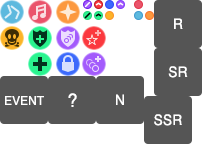
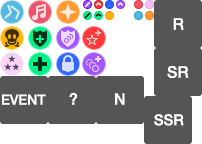
cards can be balanced

diff --git a/static/css/main.less b/static/css/main.less
@@ -158,6 +158,9 @@ footer {
   &.m_vo {
     .stitches-marker(-28px, 0, 24px, 24px);
   }
+  &.m_ba {
+    .stitches-marker(0, -52px, 24px, 24px);
+  }
   &.s_pl {
     .stitches-marker(-56px, -52px, 24px, 24px);
   }
@@ -186,7 +189,7 @@ footer {
     border-radius:3px;
     &.icon_event, &.icon_n, &.icon_r, &.icon_sr, &.icon_ssr, &.m_vi,
     &.m_da, &.m_vo, &.s_pl, &.s_cprot, &.s_combobonus, &.s_scorebonus,
-    &.s_heal, &.s_life, &.s_overload {
+    &.s_heal, &.s_life, &.s_overload, &.m_ba {
       background-image:url(../img/smarkers@2x.png);
       background-size: 202px 144px;
       border-radius:0px;
@@ -319,7 +322,7 @@ td {
         float:right;
     }
     .stats_table tbody {
-        display: block; 
+        display: block;
     }
     .stats_table tr {
         display:inline-block;
@@ -473,7 +476,7 @@ td {
     .name_tag {
       color:white;
       font-size:0;
-      
+
       .item.name {
           word-wrap:break-word;
       }
@@ -819,7 +822,7 @@ span.var {
     left:1px; top:1px;
     display:block;
     width:9px; height:9px;
-    background: url("../img/smarkers.png") 0 -50px no-repeat;
+    background: url("../img/smarkers.png") -115px -50px no-repeat;
 
     content:"";
   }
@@ -836,12 +839,16 @@ span.var {
    background-position: -134px 0;
   }
 
+  &.mm_ba::before {
+   background-position: -145px 0;
+  }
+
   &::after {
     position:absolute;
     left:1px; top:10px;
     display:block;
     width:9px; height:9px;
-    background: url("../img/smarkers.png") 0 -50px no-repeat;
+    background: url("../img/smarkers.png") -115px -50px no-repeat;
 
     content:"";
   }

diff --git a/static/css/main.css b/static/css/main.css
@@ -124,6 +124,11 @@ footer {
   width: 24px;
   height: 24px;
 }
+.icon.m_ba {
+  background-position: 0 -52px;
+  width: 24px;
+  height: 24px;
+}
 .icon.s_pl {
   background-position: -56px -52px;
   width: 24px;
@@ -177,7 +182,8 @@ footer {
   .icon.s_scorebonus,
   .icon.s_heal,
   .icon.s_life,
-  .icon.s_overload {
+  .icon.s_overload,
+  .icon.m_ba {
     background-image: url(../img/smarkers@2x.png);
     background-size: 202px 144px;
     border-radius: 0px;
@@ -822,7 +828,7 @@ span.var {
   display: block;
   width: 9px;
   height: 9px;
-  background: url("../img/smarkers.png") 0 -50px no-repeat;
+  background: url("../img/smarkers.png") -115px -50px no-repeat;
   content: "";
 }
 .icon.msprites.mm_vi::before {
@@ -834,6 +840,9 @@ span.var {
 .icon.msprites.mm_vo::before {
   background-position: -134px 0;
 }
+.icon.msprites.mm_ba::before {
+  background-position: -145px 0;
+}
 .icon.msprites::after {
   position: absolute;
   left: 1px;
@@ -841,7 +850,7 @@ span.var {
   display: block;
   width: 9px;
   height: 9px;
-  background: url("../img/smarkers.png") 0 -50px no-repeat;
+  background: url("../img/smarkers.png") -115px -50px no-repeat;
   content: "";
 }
 .icon.msprites.ms_pl::after {

diff --git a/static/dots.html b/static/dots.html
@@ -28,6 +28,10 @@
         <td><div class="icon icon_unknown msprites mm_vo"></div></td>
         <td>Red: Vocal</td>
       </tr>
+      <tr>
+        <td><div class="icon icon_unknown msprites mm_ba"></div></td>
+        <td>Creamy purple: Balanced</td>
+      </tr>
     </table>
 
     <p>And the dot below that indicates the card's skill type, if any:</p>
@@ -67,6 +71,7 @@
       <li><span class="icon m_vi"></span> high Visual</li>
       <li><span class="icon m_da"></span> high Dance</li>
       <li><span class="icon m_vo"></span> high Vocal</li>
+      <li><span class="icon m_ba"></span> balanced</li>
 
       <li><span class="icon s_pl"></span> Perfect lock</li>
       <li><span class="icon s_cprot"></span> Protects combo</li>

diff --git a/starlight/__init__.py b/starlight/__init__.py
@@ -58,6 +58,21 @@ def skill_dur(dur_def, ttype):
     return "{0}..{1}".format(_scale_skill_value(maxv, minv, 0),
                              _scale_skill_value(maxv, minv, 9))
 
+def determine_best_stat(vo, vi, da):
+    """Card stats are either balanced (VoViDa are around the same),
+       or one stat will be noticeably higher.
+       This function returns which one."""
+    VISUAL, DANCE, VOCAL, BALANCED = 1, 2, 3, 4
+    # for balanced cards, the ratio hi:lo will be close to 1
+    THRES = 1.2
+    stats = ((vo, VOCAL), (vi, VISUAL), (da, DANCE))
+    lo, lo_typ = min(stats)
+    hi, hi_typ = max(stats)
+    if hi / lo > THRES:
+        return hi_typ
+    else:
+        return BALANCED + hi_typ
+
 TITLE_ONLY_REGEX = r"^［(.+)］"
 NAME_ONLY_REGEX = r"^(?:［.+］)?(.+)$"
 
@@ -239,7 +254,7 @@ class DataCache(object):
             overall_max=lambda obj: obj.vocal_max + obj.dance_max + obj.visual_max,
             overall_bonus=lambda obj: obj.bonus_vocal + obj.bonus_dance + obj.bonus_visual,
             valist=lambda obj: [],
-            best_stat=lambda obj: max(((obj.visual_max, 1), (obj.dance_max, 2), (obj.vocal_max, 3)))[1])
+            best_stat=lambda obj: determine_best_stat(obj.vocal_max, obj.visual_max, obj.dance_max))
 
         for p in selected:
             self.card_cache[p.id] = p

diff --git a/enums.py b/enums.py
@@ -1,9 +1,13 @@
 def enum(kv):
     i = iter(kv)
     dic = dict(zip(i, i))
+    rev = {v: k for k, v in dic.items()}
 
     def f(key):
         return dic.get(key, "<missing string: {0}>".format(key))
+    def _reverse_enum(val):
+        return rev[val]
+    f.value_for_description = _reverse_enum
     return f
 
 rarity = enum([
@@ -120,13 +124,21 @@ skill_class = enum([
 stat_dot = enum([
     1, "m_vi",
     2, "m_da",
-    3, "m_vo"
+    3, "m_vo",
+    4, "m_ba",
+    5, "m_ba",
+    6, "m_ba",
+    7, "m_ba",
 ])
 
 stat_en = enum([
     1, "This card's highest stat is Visual",
     2, "This card's highest stat is Dance",
-    3, "This card's highest stat is Vocal"
+    3, "This card's highest stat is Vocal",
+    4, "This card's stats are mostly balanced",
+    5, "This card's stats are mostly balanced (Visual high)",
+    6, "This card's stats are mostly balanced (Dance high)",
+    7, "This card's stats are mostly balanced (Vocal high)"
 ])
 
 # TODO need enum defs for
